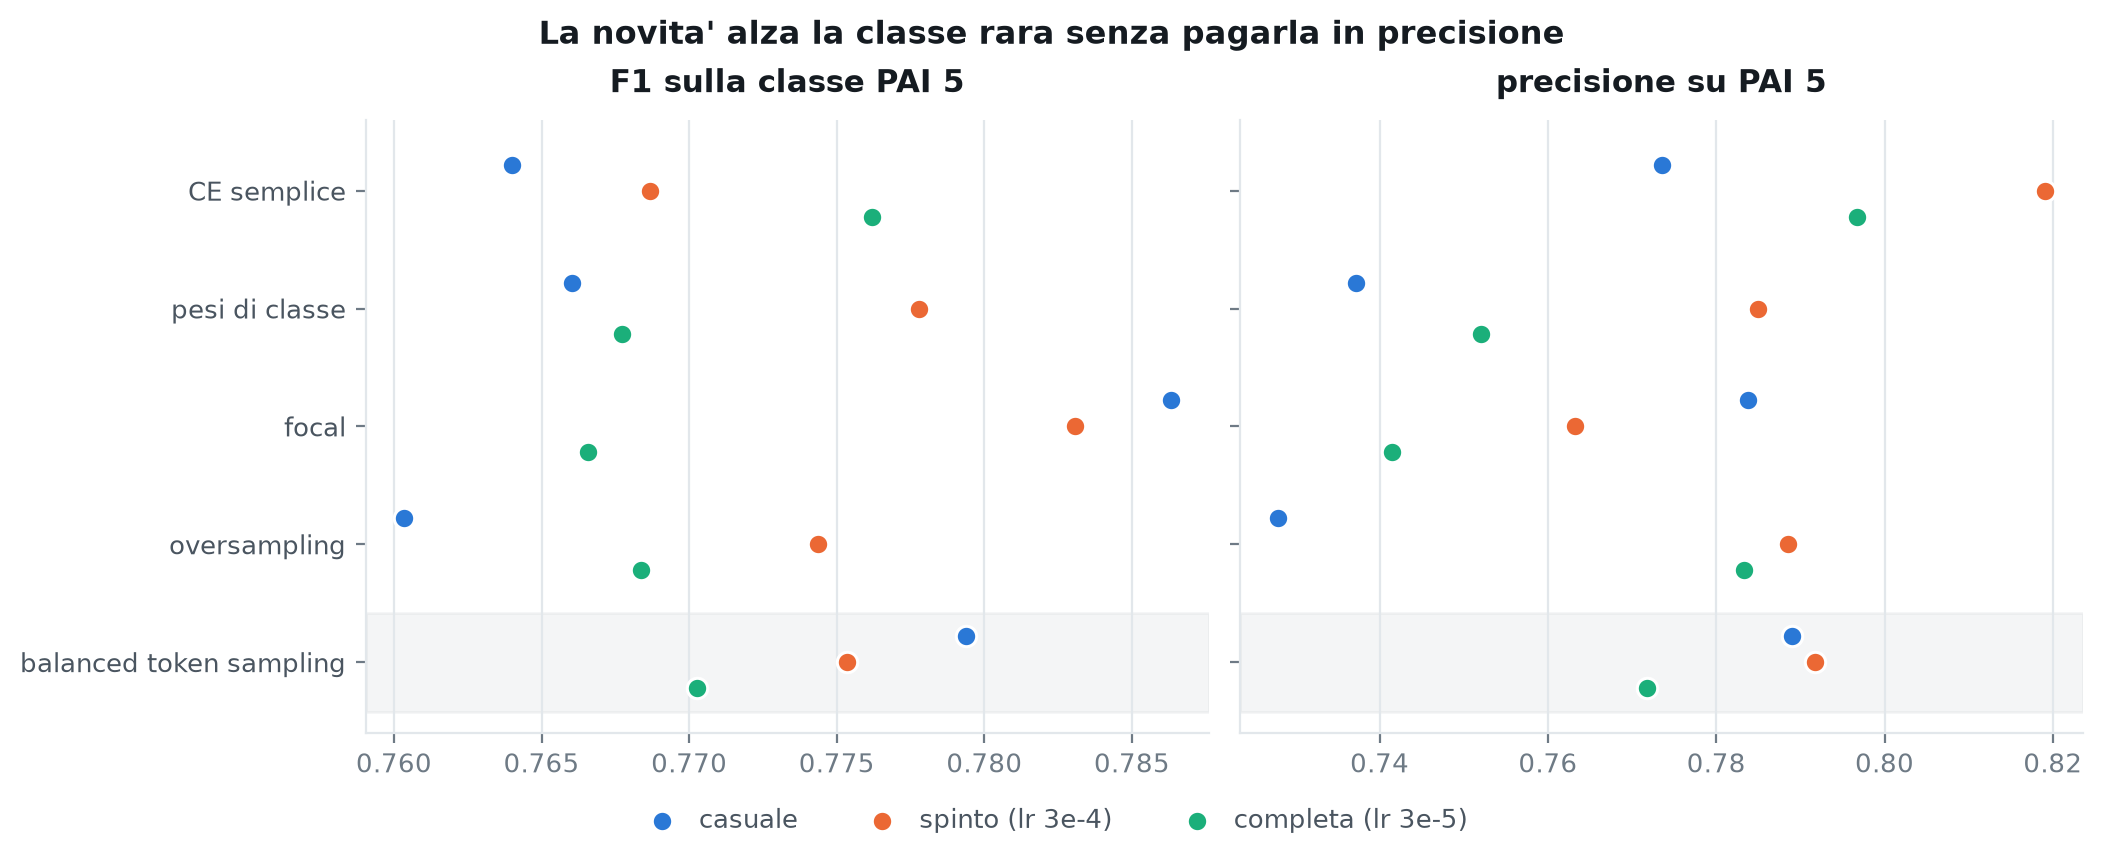
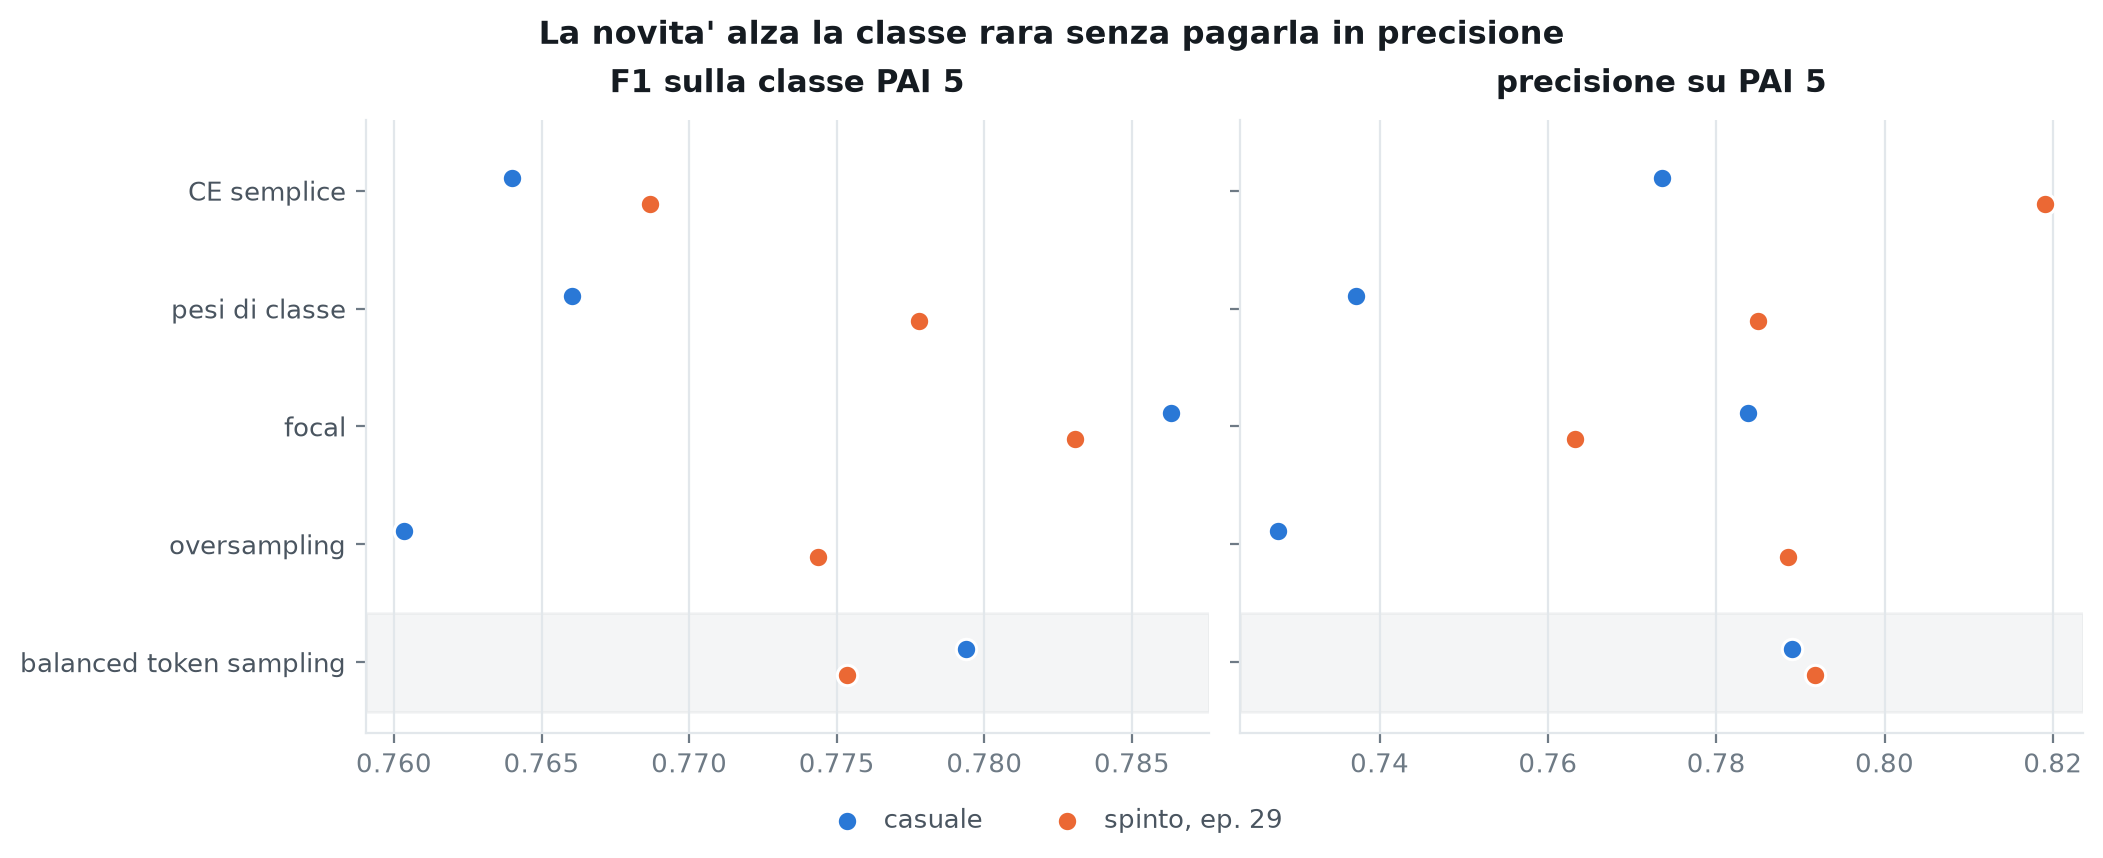
pulizia della provenienza: archiviato il braccio completa, che era ignoto
SECONDO GUASTO DI PROVENIENZA, dello stesso tipo di quello di stamattina.
results_vit_small_L2-7-11.json - il braccio `completa` della tabella dei
tre encoder, quello che riportava 0.8753 / 0.7672 - e' del 24 agosto alle
14:01, e i suoi latenti del 23 agosto alle 16:43. Ma
ijepa_vit_small_completa_best.pt con l'epoca 179 e' stato scritto il 24
agosto alle 20:20: quei latenti precedono di un giorno il checkpoint che
dicevamo di usare. L'encoder che ha prodotto quel numero non e'
identificabile. File archiviato col nome che lo dice.

figure_finali punta ora a _geo_completa, estratto il 27 agosto da
completa_best con provenienza verificata.

_SPINTO IDENTIFICATO PER CONFRONTO NUMERICO. I latenti _spinto potevano
venire da spinto (ep. 39) o spinto_best (ep. 29). Ricodificando quattro
immagini con entrambi: errore 2.3e-4 contro spinto_best (la quantizzazione
a fp16) e 2.8e-2 contro spinto. E' spinto_best, EPOCA 29, non 39.

ARCHIVIATI i quattro file del 20 agosto: ultimo blocco soltanto invece di
L2-7-11, e ritaglio relativo alla bbox, rimosso il 22 agosto perche'
annullava il segnale dominante. Non sono confrontabili con niente di
attuale e restano solo come storia.

runs/PROVENIENZA.md: da quale encoder viene ogni file di latenti, con quale
protocollo di ritaglio, e come e' stato verificato. Documenta anche il
limite dichiarato del checkpoint completa: e' l'epoca 179 su 300
configurate, la run si e' fermata a 230 per uno spegnimento, lo stato a 230
[…]

diff --git a/exp_testa.py b/exp_testa.py
@@ -17,15 +17,18 @@ Valutazione su VALIDATION: qui si sceglie il protocollo, e sceglierlo
 guardando il test sarebbe barare. Il test si tocca solo alla fine.
 """
 
+import argparse
+import json
+import os
 import time
 
 import numpy as np
 import torch
 
 from evaluation import evaluate_split
-from globals import N_SEEDS
+from globals import N_SEEDS, OUT_DIR
 from train_downstream import load_latents, train_head
-from utils import Freno
+from utils import Freno, save_json
 
 CARICO = 80
 
@@ -39,12 +42,12 @@ TESTE = [
 ]
 
 
-def misura(cached, head, freno, seeds):
+def misura(cached, head, freno, seeds, pool="attn", split="val", metodo="none"):
     f1, pr, rec = [], [], []
     for s in seeds:
         t0 = time.perf_counter()
-        clf, _ = train_head(cached, "none", head, seed=s)
-        r = evaluate_split(clf, cached["data"]["val"], head)
+        clf, _ = train_head(cached, metodo, head, seed=s, pool_type=pool)
+        r = evaluate_split(clf, cached["data"][split], head)
         del clf
         torch.cuda.empty_cache()
         freno.pausa(t0)
@@ -56,36 +59,95 @@ def misura(cached, head, freno, seeds):
 
 
 if __name__ == "__main__":
-    freno = Freno(CARICO)
+    ap = argparse.ArgumentParser()
+    ap.add_argument("--tag", default="_geo_completa",
+                    help="quale encoder. Il default e' I-JEPA completa_best "
+                         "(epoca 179), estratto con provenienza nota")
+    ap.add_argument("--controllo", default="_casuale",
+                    help="encoder di controllo per le due teste migliori")
+    ap.add_argument("--variant", default="vit_small")
+    ap.add_argument("--layers", type=int, nargs="+", default=[2, 7, 11])
+    ap.add_argument("--pool", nargs="+", default=["attn", "gated", "topk"])
+    ap.add_argument("--seeds", type=int, nargs="+", default=list(range(N_SEEDS)))
+    ap.add_argument("--carico", type=int, default=100)
+    a = ap.parse_args()
+
+    freno = Freno(a.carico)
     print(f"[freno] {freno}\n")
+    cached = load_latents(a.variant, layers=a.layers, tag=a.tag)
+    print(f"encoder{a.tag}, embed {cached['embed_dim']}, "
+          f"{len(a.seeds)} seed, metodo `none`\n")
 
-    t0 = time.time()
-    cached = load_latents("vit_small", layers=[2, 7, 11])
-    print(f"latenti caricati in {time.time()-t0:.0f}s, embed {cached['embed_dim']}\n")
+    fuori = {"tag": a.tag, "seeds": a.seeds, "teste": {}, "pooling": {},
+             "test": {}}
+    percorso = os.path.join(OUT_DIR, f"testa_pooling{a.tag}.json")
 
-    seeds = list(range(N_SEEDS))
-    print(f"{'testa':34s} {'macro-F1':>17s} {'PR-AUC PAI5':>17s} {'recall PAI5':>13s}")
-    print("-" * 86)
+    # ---------------- 1. le sei teste, pooling attuale ----------------
+    print("SEI TESTE, pooling `attn`, misura su VALIDATION")
+    print(f"{'testa':36s} {'macro-F1':>17s} {'PR-AUC PAI5':>17s}")
+    print("-" * 74)
     esiti = {}
     for head, nome in TESTE:
-        f1, pr, rec = misura(cached, head, freno, seeds)
+        f1, pr, rec = misura(cached, head, freno, a.seeds)
         esiti[head] = (f1, pr)
-        print(f"  {nome:32s} {f1.mean():.4f}+-{f1.std():.4f}  "
-              f"{pr.mean():.4f}+-{pr.std():.4f}  {np.nanmean(rec):11.4f}")
+        fuori["teste"][head] = {"nome": nome,
+                                "macro_f1": [float(f1.mean()), float(f1.std())],
+                                "pr_auc_pai5": [float(pr.mean()), float(pr.std())]}
+        print(f"  {nome:34s} {f1.mean():.4f}+-{f1.std():.4f}  "
+              f"{pr.mean():.4f}+-{pr.std():.4f}", flush=True)
+        save_json(fuori, percorso)
 
-    print(f"\n{'confronto':34s} {'d macro-F1':>12s} {'err.std':>9s} {'d PR-AUC5':>11s}")
-    print("-" * 70)
-    for base, var, etichetta in [("flat", "norm", "norm vs lineare"),
-                                 ("flat", "mlp", "mlp vs lineare"),
-                                 ("norm", "mlp", "mlp vs norm (solo il nascosto)"),
-                                 ("ordinal", "norm_ord", "norm_ord vs ordinale"),
-                                 ("ordinal", "mlp_ord", "mlp_ord vs ordinale")]:
-        (fb, pb), (fv, pv) = esiti[base], esiti[var]
-        d = fv.mean() - fb.mean()
-        # errore standard della differenza fra due medie su n seed ciascuna
+    print(f"\n{'confronto':36s} {'d macro-F1':>12s} {'z':>7s}")
+    print("-" * 60)
+    for base, var, eti in [("flat","norm","norm vs lineare"),
+                           ("flat","mlp","mlp vs lineare"),
+                           ("norm","mlp","mlp vs norm (solo il nascosto)"),
+                           ("ordinal","norm_ord","norm_ord vs ordinale"),
+                           ("ordinal","mlp_ord","mlp_ord vs ordinale")]:
+        (fb,_),(fv,_) = esiti[base], esiti[var]
+        d = fv.mean()-fb.mean()
         se = float(np.sqrt(fv.var(ddof=1)/len(fv) + fb.var(ddof=1)/len(fb)))
-        z = d / se if se > 0 else float("inf")
-        print(f"  {etichetta:32s} {d:+12.4f} {z:8.1f}x {pv.mean()-pb.mean():+11.4f}")
+        print(f"  {eti:34s} {d:+12.4f} {d/se if se>0 else float('inf'):+7.2f}")
 
-    print(f"\nPausa accumulata dal freno: {freno.pausa_totale/60:.1f} min")
-    print("Nessuna differenza sotto ~2 errori standard e' dichiarabile.")
+    migliore = max(esiti, key=lambda h: esiti[h][0].mean())
+    print(f"\nTesta migliore su validation: {migliore} "
+          f"({esiti[migliore][0].mean():.4f})")
+
+    # ---------------- 2. i tre pooling, con la testa migliore ----------------
+    print(f"\nTRE POOLING con la testa `{migliore}`, VALIDATION")
+    print(f"{'pooling':36s} {'macro-F1':>17s} {'PR-AUC PAI5':>17s}")
+    print("-" * 74)
+    ep = {}
+    for pool in a.pool:
+        f1, pr, _ = misura(cached, migliore, freno, a.seeds, pool=pool)
+        ep[pool] = f1
+        fuori["pooling"][pool] = {"macro_f1": [float(f1.mean()), float(f1.std())],
+                                  "pr_auc_pai5": [float(pr.mean()), float(pr.std())]}
+        print(f"  {pool:34s} {f1.mean():.4f}+-{f1.std():.4f}  "
+              f"{pr.mean():.4f}+-{pr.std():.4f}", flush=True)
+        save_json(fuori, percorso)
+    pool_migliore = max(ep, key=lambda p: ep[p].mean())
+
+    # ---------------- 3. sul TEST, solo la scelta e i riferimenti ----------------
+    # Selezionato su validation, il test si tocca una volta sola e solo per
+    # la configurazione scelta piu' la baseline. Riportare tutta la griglia
+    # di test dopo aver selezionato reintrodurrebbe il massimo su molte
+    # estrazioni che la selezione su validation serviva a evitare.
+    print(f"\nTEST - configurazione scelta ({migliore} + {pool_migliore}) "
+          f"e riferimento (flat + attn), su entrambi gli encoder")
+    print(f"{'encoder':16s} {'configurazione':22s} {'macro-F1':>17s} {'PR-AUC PAI5':>17s}")
+    print("-" * 78)
+    for tag in (a.tag, a.controllo):
+        c = cached if tag == a.tag else load_latents(a.variant, layers=a.layers, tag=tag)
+        for h, pl in dict.fromkeys([(migliore, pool_migliore), ("flat", "attn")]):
+            f1, pr, _ = misura(c, h, freno, a.seeds, pool=pl, split="test")
+            fuori["test"][f"{tag}|{h}|{pl}"] = {
+                "macro_f1": [float(f1.mean()), float(f1.std())],
+                "pr_auc_pai5": [float(pr.mean()), float(pr.std())]}
+            print(f"{tag:16s} {h + ' + ' + pl:22s} {f1.mean():.4f}+-{f1.std():.4f}  "
+                  f"{pr.mean():.4f}+-{pr.std():.4f}", flush=True)
+            save_json(fuori, percorso)
+        if tag != a.tag:
+            del c
+
+    print(f"\nRisultati in {percorso}")

diff --git a/figure_finali.py b/figure_finali.py
@@ -61,10 +61,15 @@ plt.rcParams.update({
 PAVIMENTO = 0.2589
 SOGLIE_BBOX = 0.7567     # due tagli sul lato della bbox, senza rete
 
+# Il tag "" puntava a results_vit_small_L2-7-11.json, i cui latenti erano
+# del 23 agosto e provenivano da un checkpoint IGNOTO - un giorno prima che
+# completa_best raggiungesse l'epoca 179. Quel file e' archiviato e il
+# braccio punta ora a _geo_completa, estratto il 27 agosto da
+# completa_best con provenienza verificata. Vedi runs/PROVENIENZA.md.
 ENCODER = [
     ("_casuale", "casuale", BLU),
-    ("_spinto", "spinto (lr 3e-4)", ARANCIO),
-    ("", "completa (lr 3e-5)", ACQUA),
+    ("_spinto", "spinto, ep. 29", ARANCIO),
+    ("_geo_completa", "completa, ep. 179", ACQUA),
 ]
 
 

diff --git a/runs/PROVENIENZA.md b/runs/PROVENIENZA.md
@@ -1,0 +1,108 @@
+# Provenienza di ogni misura
+
+Documento di verifica: da quale encoder viene ogni file di latenti, e quale
+protocollo di ritaglio è stato usato. Esiste perché il 27 agosto abbiamo
+scoperto **due** guasti di provenienza, e senza questa tabella non erano
+individuabili:
+
+1. `run_grid` riprendeva da file saltando le celle già presenti **senza
+   verificare con quali latenti fossero state prodotte**. Tre celle su
+   dieci della griglia `_casuale` erano sopravvissute da uno stato
+   precedente.
+2. Il braccio `completa` della tabella dei tre encoder era misurato su
+   latenti del **23 agosto**, mentre il checkpoint che dicevamo di usare
+   (`completa_best`, epoca 179) è stato scritto il **24 agosto alle 20:20**.
+   Quei latenti precedono di un giorno il modello dichiarato.
+
+Da oggi `run_grid` salva l'impronta dei latenti nei risultati e **rifiuta**
+la ripartenza quando non corrisponde. Questa tabella copre ciò che è stato
+prodotto prima.
+
+---
+
+## I due protocolli di ritaglio
+
+| protocollo | finestra | segnale geometrico | uso |
+|---|---|---|---|
+| **geometrico** | fissa, 224 px nativi, centrata sulla lesione | preservato: 16/36/64 token per PAI 3/4/5 | **è il protocollo del brief** |
+| **cieco alla dimensione** | 3× il lato della bbox, ridimensionata a 224 | azzerato nel conteggio: 36 token per tutti | ablation sull'encoder |
+
+Il cieco **non sostituisce** il protocollo del brief: lo affianca come
+strumento di misura. E non è un isolamento perfetto — la dimensione rientra
+in parte come magnificazione (R² 0,55–0,70 nel predire il lato della bbox
+dal vettore).
+
+---
+
+## Latenti
+
+| file | encoder | epoca | protocollo | verificato |
+|---|---|---|---|---|
+| `latents_..._casuale.pt` | `build_ijepa`, seme 42, **nessun peso addestrato** | — | geometrico | per costruzione |
+| `latents_..._geo_completa.pt` | `ijepa_vit_small_completa_best` | **179** | geometrico | estratto il 27 ago |
+| `latents_..._spinto.pt` | `ijepa_vit_small_spinto_best` | **29** | geometrico | **confronto numerico** (errore 2,3e-4 contro 2,8e-2 dell'altro candidato) |
+| `latents_..._imagenet.pt` | torchvision ViT-B/16, `IMAGENET1K_V1` | — | geometrico | estratto il 27 ago |
+| `latents_..._cieco_casuale.pt` | `build_ijepa`, seme 42 | — | cieco | estratto il 27 ago |
+| `latents_..._cieco_completa.pt` | `ijepa_vit_small_completa_best` | **179** | cieco | estratto il 27 ago |
+| `latents_..._cieco_notte.pt` | `ijepa_vit_small_notte` | **40** | cieco | estratto il 27 ago |
+| `latents_..._cieco_mask80.pt` | `ijepa_vit_small_mask80` | **208** | cieco | estratto il 27 ago |
+| `latents_..._cieco_imagenet.pt` | torchvision ViT-B/16 | — | cieco | estratto il 27 ago |
+| ~~`latents_vit_small_L2-7-11.pt`~~ | **IGNOTO**, 23 ago | ? | geometrico | ❌ **non identificabile** |
+
+---
+
+## Risultati
+
+### Validi, provenienza nota
+
+| file | encoder | note |
+|---|---|---|
+| `results_..._casuale.json` | casuale | griglia rifatta da zero il 27 ago con impronta |
+| `results_..._cieco_casuale.json` | casuale, cieco | |
+| `results_..._cieco_completa.json` | completa ep. 179, cieco | |
+| `results_..._imagenet.json` | ViT-B/16 ImageNet | griglia ridotta, `none` + `balanced_tokens`, testa flat |
+| `sweep_alpha_..._casuale.json` | casuale | |
+| `curve_pr_..._casuale.json` | casuale | |
+| `diversita_..._casuale*.json` | casuale | |
+| `rumore_..._casuale.json` | casuale | |
+| `sonde_vit_small.json` | tutti, entrambi i protocolli | sonde k-NN senza parametri |
+| `mascheramento_vit_small.json` | casuale + completa ep. 179 | protocolli di mascheramento |
+| `stratificata_vit_small.json` | casuale + completa ep. 179 | |
+| `traiettoria_testa_cieco.json` | casuale + completa ep. 179, cieco | |
+
+### Da sostituire
+
+| file | problema |
+|---|---|
+| `results_vit_small_L2-7-11.json` | latenti del 23 ago da checkpoint **ignoto**. È il braccio `completa` della tabella principale. **Va rifatto su `_geo_completa`** |
+
+### Archiviati — protocollo superato
+
+Tutti del 20 agosto, con **ultimo blocco soltanto** (non `L2-7-11`) e
+**ritaglio relativo alla bbox** (rimosso il 22 agosto perché annullava il
+segnale dominante). Non sono confrontabili con nulla di attuale, e restano
+solo come storia.
+
+- `results_ijepa_vit_small.json` — I-JEPA di allora, un checkpoint collassato
+- `results_imagenet_vit_small.json` — ImageNet
+- `results_random_vit_small.json` — casuale
+- `sweep_alpha_ijepa_vit_small.json` — primo sweep di alpha
+
+---
+
+## Un limite dichiarato del checkpoint `completa`
+
+`ijepa_vit_small_completa_best.pt` è l'**epoca 179 su 300 configurate**, e
+la run si è fermata a **230** per uno spegnimento hardware, non per
+convergenza. Lo stato a 230 non è stato salvato: solo `_best` viene scritto.
+
+E il `_best` è stato scelto massimizzando la macro-F1 downstream **nel
+protocollo geometrico** — che il 27 agosto abbiamo dimostrato essere
+dominato dal canale della maschera (la sola maschera one-hot, senza pixel,
+dà macro-F1 0,7708). **Il criterio di selezione era cieco alla qualità
+della rappresentazione.**
+
+Entrambe le cose vanno dichiarate in presentazione. La curva di
+apprendimento misurata con una sonda che vede — 0 epoche 0,3173, 40 epoche
+0,4668, 179 epoche 0,6092 — è **monotona e non satura**, il che suggerisce
+che più pre-training aiuterebbe.
